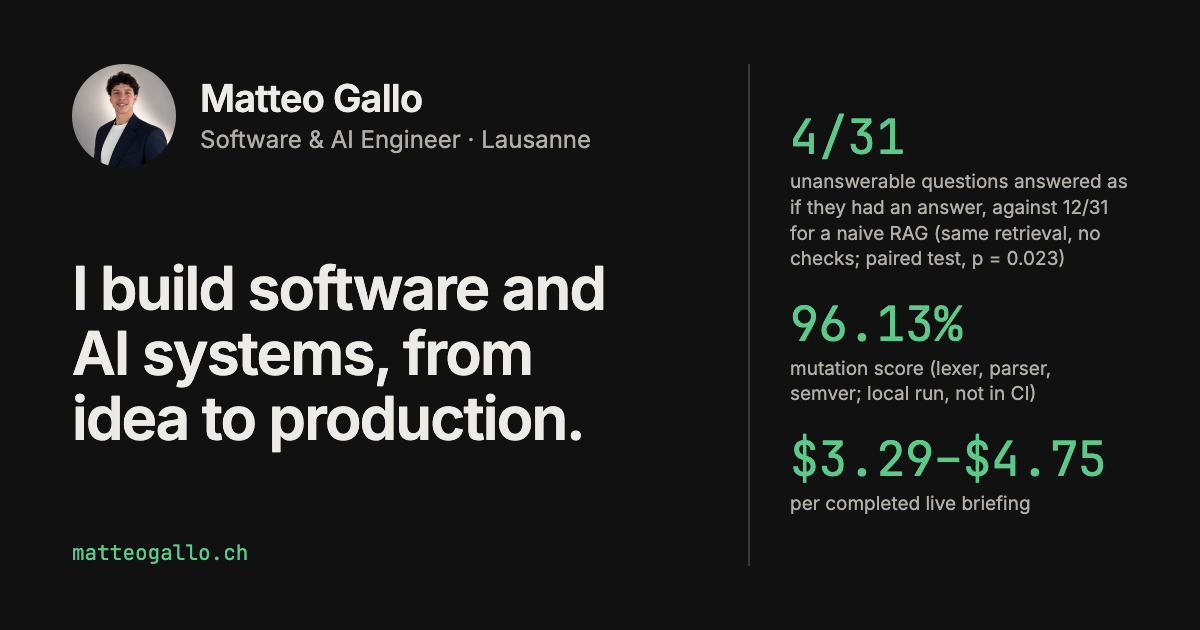
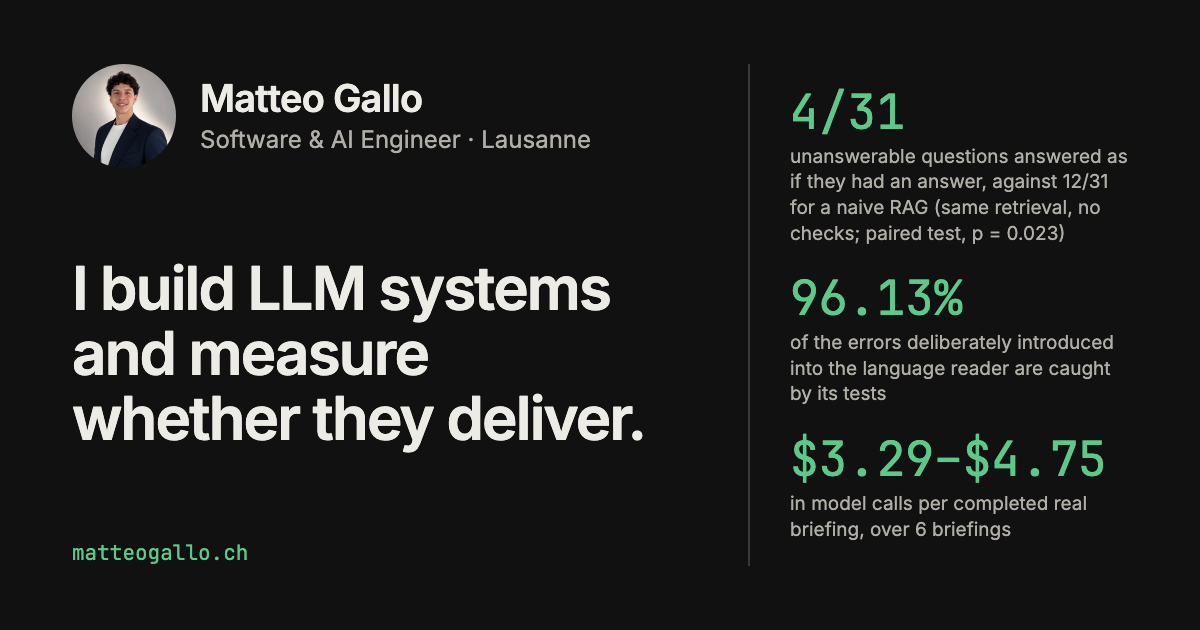
feat(home): strengths first, one compared figure per project, one authorship sentence
- Headline and subtitle from the presentation referential; meta descriptions and Open Graph
  images aligned.
- Each card: one sentence without unexplained jargon, one figure with its comparator, its
  links. The limit and stack lines move to the case studies; Praxis says "en cours".
- Card figures are words of their sentence (Figure's `sentence`), read as such aloud.
- Bio and Colophon carry the one authorship sentence, word for word (M5); the bio ends on one
  personal line, set apart.

Changed region(s): [[0.6475, 0.1508, 0.9558, 0.6333], [0.0617, 0.4222, 0.5242, 0.7238], [0.6475, 0.7841, 0.925, 0.8746]]

diff --git a/src/lib/og.ts b/src/lib/og.ts
@@ -13,20 +13,19 @@ export const OG = {
   role: { fr: "Ingénieur logiciel & IA · Lausanne", en: "Software & AI Engineer · Lausanne" },
   fr: {
     file: "public/og.png",
-    headline: "Je conçois des logiciels et des systèmes d’IA, de l’idée à la production.",
-    alt: "Matteo Gallo, ingénieur logiciel et IA à Lausanne : « Je conçois des logiciels et des systèmes d’IA, de l’idée à la production. »",
+    headline: "Je construis des systèmes à base de LLM, et je mesure s’ils tiennent leurs promesses.",
+    alt: "Matteo Gallo, ingénieur logiciel et IA à Lausanne : « Je construis des systèmes à base de LLM, et je mesure s’ils tiennent leurs promesses. »",
   },
   en: {
     file: "public/og-en.png",
-    headline: "I build software and AI systems, from idea to production.",
-    alt: "Matteo Gallo, software and AI engineer in Lausanne: “I build software and AI systems, from idea to production.”",
+    headline: "I build LLM systems and measure whether they deliver.",
+    alt: "Matteo Gallo, software and AI engineer in Lausanne: “I build LLM systems and measure whether they deliver.”",
   },
   /** The home page's project cards, drawn beside the headline: one figure each, as the card shows it. */
   figures: [
     {
       id: "verity.twoarm_unanswerable_answered_verity",
-      // The card's figure is a comparison: the baseline's count and the test's p are read from their measures, and the
-      // card writes them in its sentence, with no dash after the first figure.
+      // A comparison: the baseline's count and the test's p are read from their measures.
       caption: {
         fr: `questions sans réponse traitées comme si elles en avaient une, contre ${measure("verity.twoarm_unanswerable_answered_naive").display.fr} pour un RAG naïf (même recherche, sans contrôles ; test apparié, p = ${measure("verity.twoarm_unanswerable_answered_p").display.fr})`,
         en: `unanswerable questions answered as if they had an answer, against ${measure("verity.twoarm_unanswerable_answered_naive").display.en} for a naive RAG (same retrieval, no checks; paired test, p = ${measure("verity.twoarm_unanswerable_answered_p").display.en})`,
@@ -35,9 +34,17 @@ export const OG = {
     },
     {
       id: "promptlang.mutation_score",
-      caption: { fr: "score de mutation (lexer, parser, semver ; exécution locale, hors CI)", en: "mutation score (lexer, parser, semver; local run, not in CI)" },
+      caption: { fr: "des erreurs introduites exprès dans la lecture du langage sont repérées par ses tests", en: "of the errors deliberately introduced into the language reader are caught by its tests" },
+      dash: false,
     },
-    { id: "praxis.cost_per_briefing", caption: { fr: "par briefing live terminé", en: "per completed live briefing" } },
+    {
+      id: "praxis.cost_per_briefing",
+      caption: {
+        fr: `d’appels au modèle par briefing réel terminé, sur ${measure("praxis.live_completed").k} briefings`,
+        en: `in model calls per completed real briefing, over ${measure("praxis.live_completed").k} briefings`,
+      },
+      dash: false,
+    },
   ],
   /** Each case study's image leads with the first figure of its brief, captioned as there. */
   cases: {
@@ -81,7 +88,7 @@ function caseImage(slug: CaseSlug, lang: Lang): OgImage {
 }
 
 /** The figures of the home image in `lang`: the value as its card shows it, and its caption. */
-/** Each card's figure: `line` is how the card writes it, value and caption joined by a dash unless the caption continues the sentence. */
+/** Each card's figure: `line` is how the card writes it, value and caption in one sentence, or joined by a dash. */
 export function homeFigures(lang: Lang): { id: string; value: string; caption: string; line: string }[] {
   return OG.figures.map((f) => {
     const value = measure(f.id).display[lang];

diff --git a/tests/affordances.spec.ts b/tests/affordances.spec.ts
@@ -61,14 +61,14 @@ for (const home of HOMES) {
     }
   });
 
-  test(`${home.path}: the plain words of a card's caption, figure line and limit open its case study too`, async ({ page }) => {
+  test(`${home.path}: the plain words of a card's caption and figure line open its case study too`, async ({ page }) => {
     await page.emulateMedia({ reducedMotion: "reduce" });
     await page.goto(home.path);
     for (const [i, slug] of SLUGS.entries()) {
       const card = page.locator(".project").nth(i);
       await card.scrollIntoViewIfNeeded();
       const hits = await card.evaluate((c) =>
-        ["figcaption", ".figure-line", ".limit"].map((sel) => {
+        ["figcaption", ".figure-line"].map((sel) => {
           const block = c.querySelector(sel)!;
           // The first run of words of the block that is not itself in a link.
           const text = [...block.childNodes].find((n) => n.nodeType === Node.TEXT_NODE && /\S{3}/.test(n.textContent ?? ""))!;
@@ -140,8 +140,8 @@ for (const path of ["/", "/en/"]) {
         return { text: (a as HTMLElement).innerText, gap: range.getBoundingClientRect().left - a.getBoundingClientRect().right, space };
       }),
     );
-    // "3", "12 signalements justes sur 40" and "6" in the cards' limits.
-    expect(gaps.length).toBeGreaterThanOrEqual(3);
+    // Every card's figure line is a sentence: Verity's three figures, PromptLang's, Praxis's two.
+    expect(gaps.length).toBeGreaterThanOrEqual(6);
     for (const g of gaps) expect(g.gap, JSON.stringify(g)).toBeLessThanOrEqual(g.space + 0.5);
   });
 }

diff --git a/tests/states.spec.ts b/tests/states.spec.ts
@@ -82,8 +82,8 @@ const ELEMENTS: Record<string, { path: string; find: (page: Page) => Locator }> 
       ["demo tab (not selected)", (p) => p.getByRole("tab", { name: w.refuses })],
       ["original trace link", (p) => p.locator("[data-verity-demo] .note a")],
       ["contract fold", (p) => p.locator("details.contract summary")],
-      ["figure in a limit", (p) => p.locator(".limit a.figure").first()],
       ["figure in a card", (p) => p.locator(".project a.figure").first()],
+      ["figure in a card's comparison", (p) => p.locator(".project a.figure").nth(1)],
       ["project card", (p) => p.locator(".project .card-link").first()],
       ["project text link", (p) => p.locator(".project .links a:not(.card-link)").first()],
       ["method card", (p) => p.locator(`#${w.method} .rules .links a`).first()],

diff --git a/tests/magnifier.spec.ts b/tests/magnifier.spec.ts
@@ -207,7 +207,7 @@ test.describe("without JavaScript", () => {
     await expect(page.locator("#verity-panel-answer")).toBeVisible();
     await expect(page.locator("#verity-panel-refusal")).toBeVisible();
     await expect(page.getByRole("tablist")).toBeHidden();
-    await expect(page.locator(".bio p")).toHaveCount(5);
+    await expect(page.locator(".bio p")).toHaveCount(6);
     await expect(page.locator(".bio button")).toHaveCount(0);
   });
 });

diff --git a/docs/SPEC.md b/docs/SPEC.md
@@ -24,16 +24,16 @@ Plain text on the left, one strong visual on the right: Verity working on a cont
 ### 3.1 Home `/`
 1. **Navigation:** floating glass pill. Projects · Method · About, and the FR | EN selector; Writing joins it once an article exists. On the other pages the selector sits in the header.
 2. **First screen:** sober, readable by a recruiter in 30 seconds; no band of figures.
-   - Left, in small type: the **portrait** (56 px, round), the name, « Ingénieur logiciel & IA · Lausanne » / "Software & AI Engineer · Lausanne" and the status "Disponible" (green dot). Then the headline, 68 px: « Je conçois des logiciels et des systèmes d’IA, de l’idée à la production. » (EN: "I build software and AI systems, from idea to production.") Under it: « Ma spécialité : mesurer ce qu’ils valent vraiment. Tests, évaluations, limites publiées. », and the buttons « Voir les projets » and « Écrire un e-mail ».
+   - Left, in small type: the **portrait** (56 px, round), the name, « Ingénieur logiciel & IA · Lausanne » / "Software & AI Engineer · Lausanne" and the status "Disponible" (green dot). Then the headline, 68 px: « Je construis des systèmes à base de LLM, et je mesure s’ils tiennent leurs promesses. » (EN: "I build LLM systems and measure whether they deliver.") Under it: « Recherche documentaire qui cite ou refuse, langage typé pour prompts, pipelines d’analyse : chaque résultat publié avec sa preuve. », and the buttons « Voir les projets » and « Écrire un e-mail ».
    - Right: the Verity demo (section 2).
-3. **Projects:** 3 cards (Verity, PromptLang, Praxis; no calibre number), each with **a real screenshot or GIF** of the product and a one-line caption (« Démo enregistrée : … Voir le GIF ↗ »; the detail is in the alt text), one sentence, **one** figure linked to its proof, one line « Limite : … » with its proof (the label in the defect colour, the text in ink), the technologies in small type, and at the foot a secondary button « Lire l’étude de cas → » beside « Code sur GitHub ↗ ». The whole card opens its case study (its title is the link, stretched over the card; the links it holds stay their own, above it); under the pointer it rises 2 px and its border darkens, and keyboard focus rings the whole card. The other figures stay on the case studies.
-4. **Method:** 3 cards side by side with noun titles (« Audit indépendant », « Lecture des sorties réelles », « Évaluation pré-enregistrée »), the real incident behind each in two lines and the link to its PR. Link to the repository.
+3. **Projects:** 3 cards (Verity, PromptLang, Praxis; no calibre number), each with **a real screenshot or GIF** of the product and a one-line caption (« Démo enregistrée : … Voir le GIF ↗ »; the detail is in the alt text), one sentence saying what it does for someone (no jargon left unexplained), **one** figure linked to its proof and written with what it is compared with (a baseline, a sample size), and at the foot a secondary button « Lire l’étude de cas → » beside « Code sur GitHub ↗ ». Verity's figure is the pre-registered comparison with a naive RAG; Praxis, still being proven, carries « en cours » beside its name and its cost per briefing. Limits and technologies live on the case studies. The whole card opens its case study (its title is the link, stretched over the card; the links it holds stay their own, above it); under the pointer it rises 2 px and its border darkens, and keyboard focus rings the whole card. The other figures stay on the case studies.
+4. **Method:** 3 cards side by side with noun titles (« Audit indépendant », « Lecture des sorties réelles », « Évaluation pré-enregistrée »), the real incident behind each in at most two sentences and the link to its PR. Link to the repository.
 5. **Writing:** dated list of published articles. The section is left out while none is published.
-6. **About and contact**, one closing section on two columns. Left, the bio in one block: role and city, how I work with coding agents, initial training, languages, what I am looking for. Right: "Un poste d'ingénieur logiciel et IA en Suisse romande ? Écrivez-moi.", the e-mail in large type, LinkedIn and GitHub as buttons. No form.
+6. **About and contact**, one closing section on two columns. Left, the bio in one block: role and city, how I work with coding agents, initial training, languages, what I am looking for; then one personal line, set apart (« En dehors du code, j’assemble des montres Seiko personnalisées et je joue du piano. »). Right: "Un poste d'ingénieur logiciel et IA en Suisse romande ? Écrivez-moi.", the e-mail in large type, LinkedIn and GitHub as buttons. No form.
 7. **Footer:** the site's own measures (weight, Lighthouse, build date, commit), generated by CI. Link to the Colophon.
 
 ### 3.2 Case studies `/projets/<slug>`
-Problem (3 lines) · what I built (1 SVG diagram) · measures (table with intervals and baseline, linked to the artefacts) · what did not work and what I did about it · 3 decisions (ADR) · how it is built · what comes next.
+Problem (3 lines) · what I built (1 SVG diagram) · measures (table with intervals and baseline, linked to the artefacts) · known limits and next steps (each written scope → known limit → next step) · 3 decisions (ADR) · how it is built · what comes next.
 
 ### 3.3 Writing `/ecrits/<slug>`
 68-character column, tabular figures, numbered figures, interactive demos allowed inside articles.
